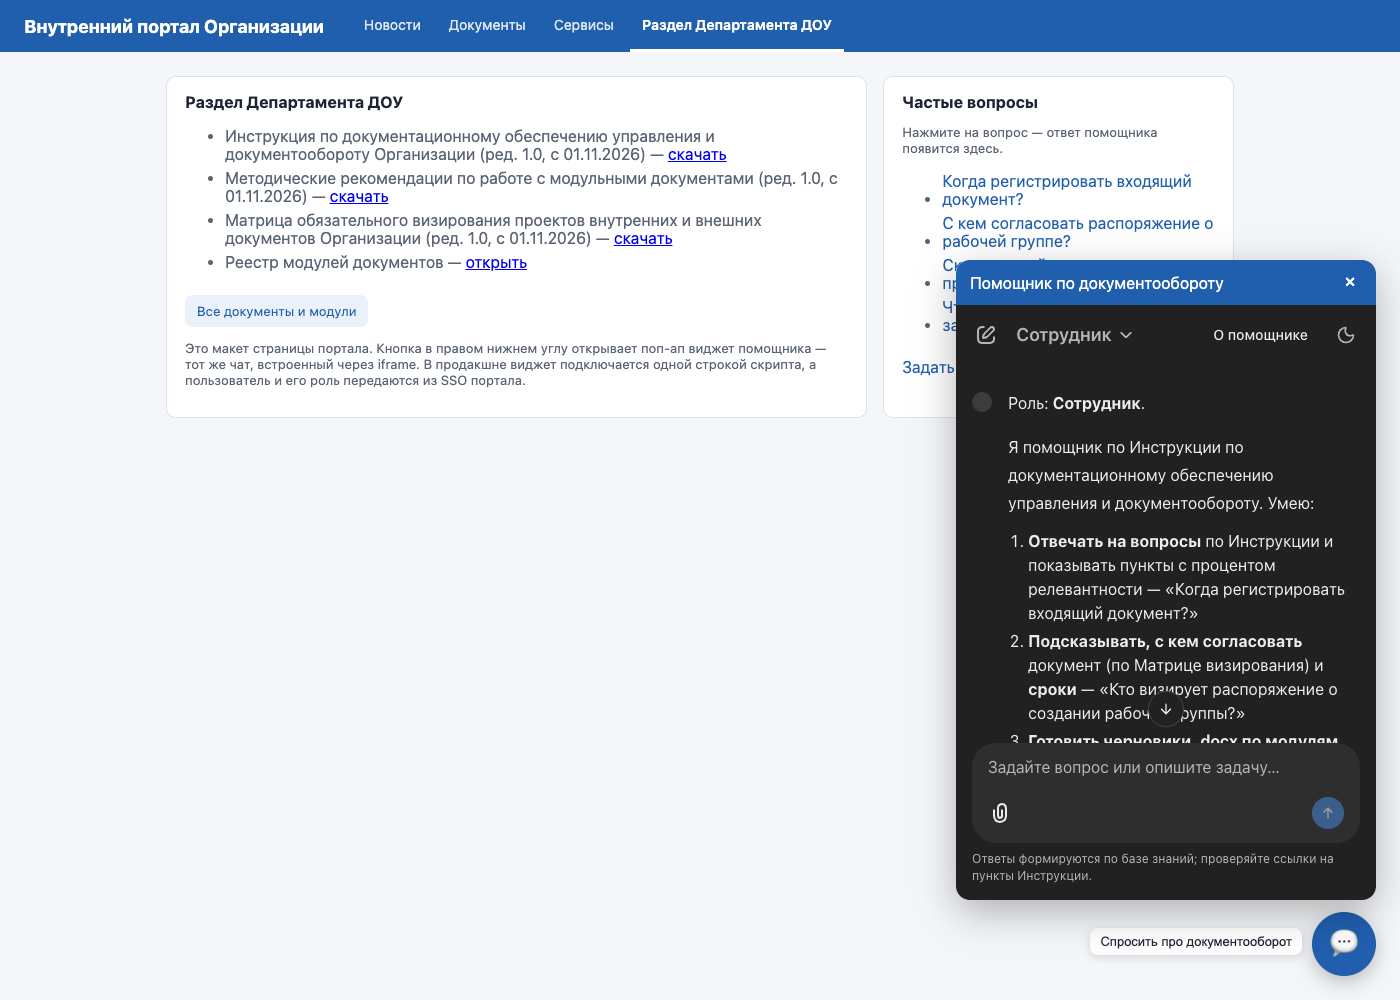
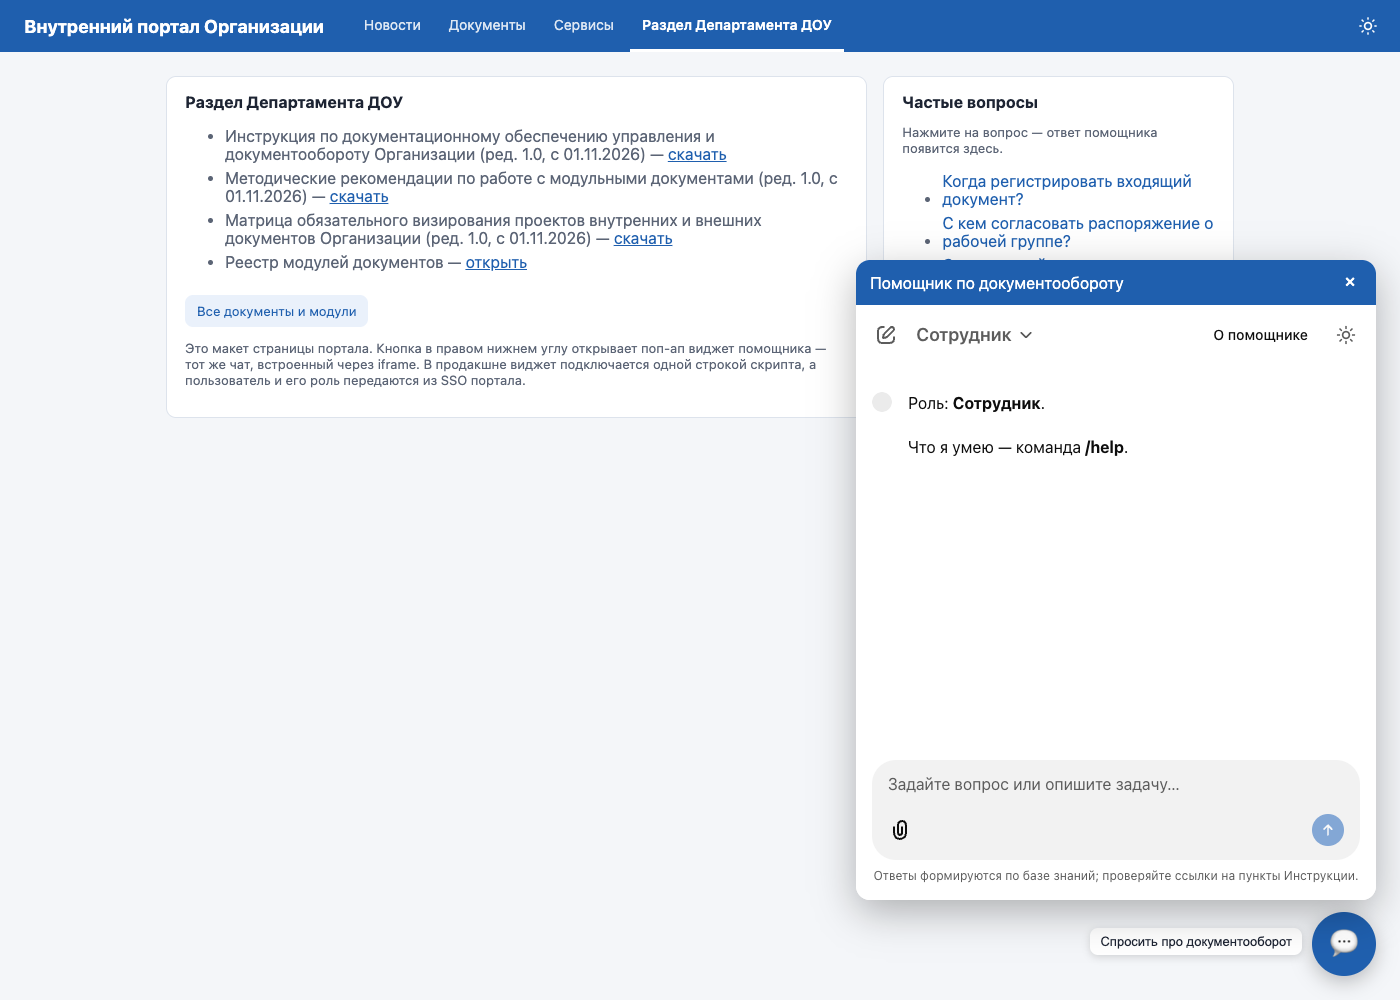
Короткое приветствие с /help, окно виджета шире (520 px)
Чат здоровается только ролью и подсказкой «/help»; список возможностей —
по команде /help (обычный текст, распознаётся правилом намерений).
Команды Chainlit не используются: Enter после «/help» в них только выбирает
команду, а не отправляет сообщение.

diff --git a/public/portal_widget.html b/public/portal_widget.html
@@ -62,7 +62,7 @@
          background:var(--brand); color:#fff; font-size:28px; cursor:pointer; box-shadow:0 6px 20px rgba(0,0,0,.25); }
   #fab .hint { position:absolute; right:74px; top:16px; white-space:nowrap; background:var(--card); color:var(--ink);
                font-size:13px; padding:6px 10px; border-radius:8px; box-shadow:0 2px 8px rgba(0,0,0,.15); }
-  #panel { position:fixed; right:24px; bottom:100px; width:420px; height:640px; max-height:calc(100vh - 120px);
+  #panel { position:fixed; right:24px; bottom:100px; width:520px; height:640px; max-height:calc(100vh - 120px);
            background:var(--card); border-radius:14px; overflow:hidden; box-shadow:0 12px 40px rgba(0,0,0,.3); display:none;
            flex-direction:column; z-index:10; }
   #panel.open { display:flex; }

diff --git a/app/main.py b/app/main.py
@@ -55,7 +55,9 @@ async def start():
     cl.user_session.set("session", s)
     if can_view_archive(role):
         await cl.ChatSettings([Switch(id="archive", label="Искать также в архивных редакциях", initial=False)]).send()
-    await _send(get_engine().help(), greeting=f"Роль: **{roles()[role]['title']}**.\n\n")
+    # Справка — по команде /help (обычный текст, его распознаёт классификатор намерений). Команды Chainlit
+    # (set_commands) не подходят: Enter после «/help» только выбирает команду, а не отправляет сообщение.
+    await cl.Message(content=f"Роль: **{roles()[role]['title']}**.\n\nЧто я умею — команда **/help**.").send()
 
 
 @cl.on_settings_update
@@ -64,9 +66,9 @@ async def settings_update(settings):
     s.include_archived = bool(settings.get("archive"))
 
 
-async def _send(reply: Reply, greeting: str = "") -> None:
+async def _send(reply: Reply) -> None:
     elements = []
-    text = greeting + reply.text
+    text = reply.text
     actions = [cl.Action(name="quick", payload={"text": payload}, label=label) for label, payload in reply.actions]
     if reply.sources:
         lines = ["", "**Источники:**"]

diff --git a/tests/ui_demo.py b/tests/ui_demo.py
@@ -87,6 +87,12 @@ async def main(url: str) -> int:
         await page.wait_for_timeout(1500)
         chat = Chat(page)
 
+        print("0. Приветствие и /help")
+        body = await page.inner_text("body")
+        check("Роль: Сотрудник" in body and "/help" in body and "Умею" not in body, "приветствие: роль и подсказка /help", failures)
+        body = await chat.say("/help")
+        check("Отвечать на вопросы" in body and "Проверять загруженный черновик" in body, "/help показывает, что умеет помощник", failures)
+
         print("1–3. Вопрос своими словами → положения с % релевантности → ответ простым языком со ссылками")
         body = await chat.say("Мне поручили собрать рабочую группу для подготовки регламента. Каким документом это оформляется?")
         check("релевантность" in body and "п. 9.7.1" in body, "найден п. 9.7.1 с процентом релевантности", failures)

diff --git a/docs/ui_mockup.md b/docs/ui_mockup.md
@@ -2,7 +2,7 @@
 
 Два варианта одного и того же чата:
 
-1. **Отдельный веб-интерфейс** — http://localhost:8000/?chat (Chainlit).
+1. **Отдельный веб-интерфейс** — http://localhost:8000/?chat (Chainlit). Приветствие короткое — роль и подсказка: что умеет помощник, показывает команда `/help` (также «помощь», «что ты умеешь»).
 2. **Поп-ап виджет для портала** — макет страницы портала http://localhost:8000/widget: плавающая кнопка в правом нижнем углу открывает окно чата (iframe). В продакшне подключается одной строкой скрипта, а роль передаётся из SSO портала. Вкладки макета рабочие (адреса `#news`, `#docs`, `#services`, `#dou`, работает «назад»): «Новости» — лента из `news.yaml` и автоматические новости о новых редакциях документов (`/api/news`), «Документы» берёт список из базы знаний (`/api/kb/documents`, `/api/templates`) и даёт скачать оригиналы, «Сервисы» показывает статус системы (`/api/health`), частые вопросы и кнопки-вопросы в новостях отвечают через `POST /api/ask`: в карточке видны первые 5 строк ответа, «Подробнее» открывает весь ответ в окне 650×500 по центру страницы (Esc или клик мимо окна закрывает). Тема по умолчанию как в системе; кнопка в правом верхнем углу портала и такая же в шапке чата (солнце — светлая, полумесяц — тёмная) переключают тему сразу и на портале, и в чате: выбор хранится в браузере под общим ключом (`public/theme.js`).
 
 Все скриншоты получены автоматически скриптом `tests/ui_demo.py` в Chrome.
@@ -60,4 +60,4 @@
 └───────────────────────────────────────────────────────────────┘
 ```
 
-На мобильной ширине окно виджета растягивается на всю ширину экрана с отступами 8 px.
+Окно виджета — 520×640 px. На мобильной ширине окно виджета растягивается на всю ширину экрана с отступами 8 px.
